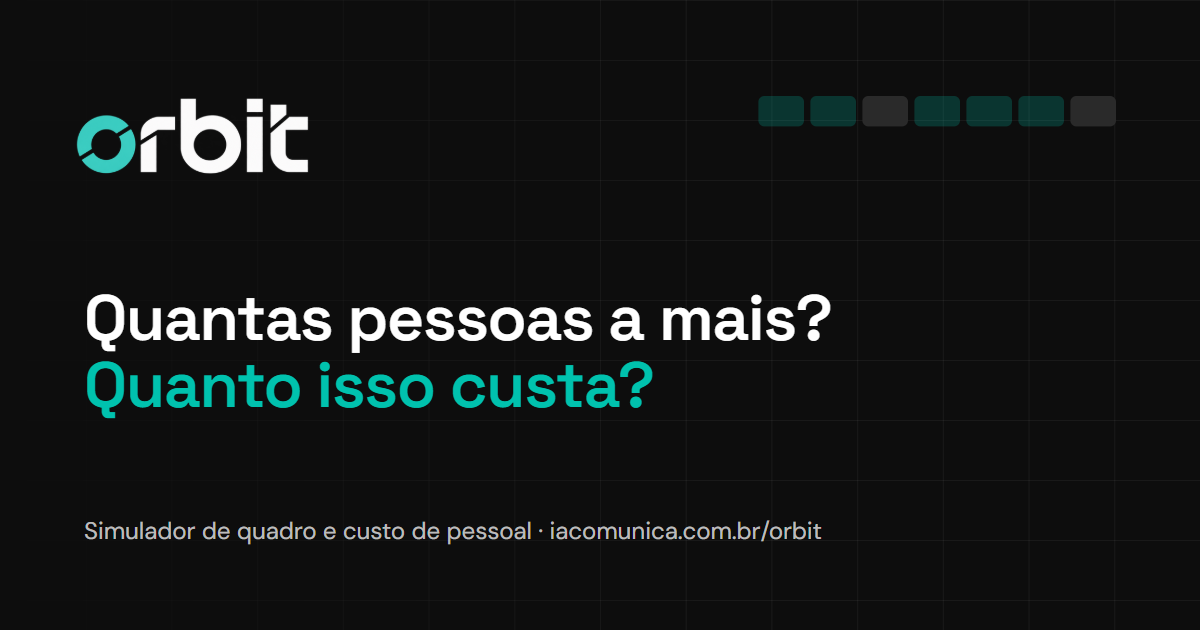
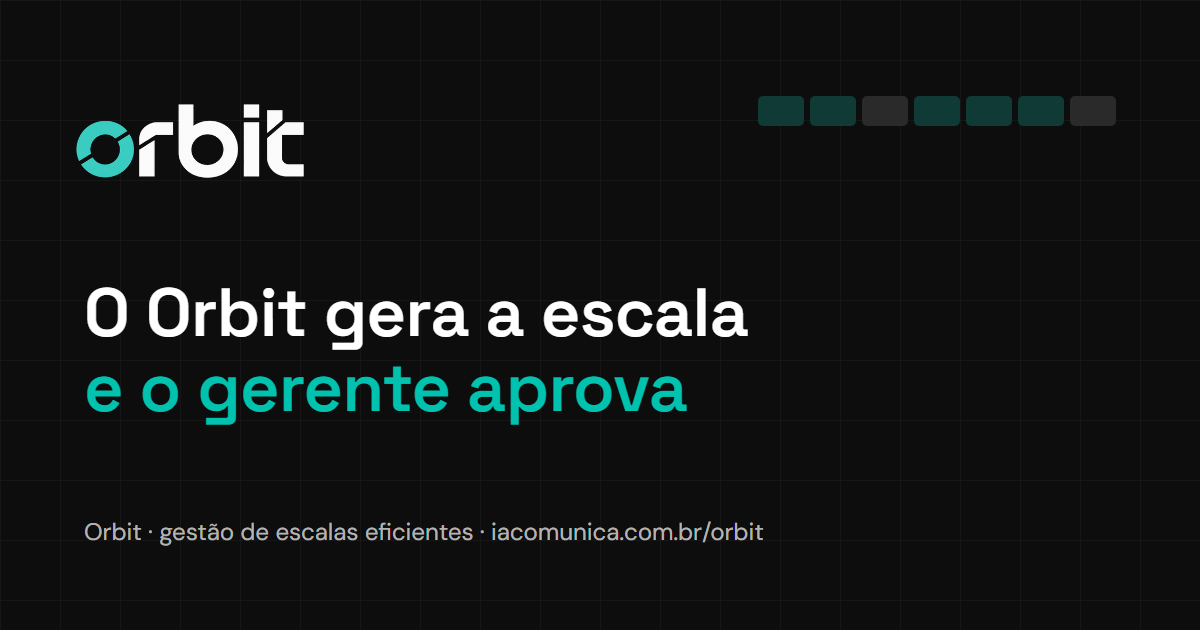
feat(orbit): secao de beneficios, CTA final sem simulador, WhatsApp e previa de compartilhamento sobre o produto

Changed region(s): [[0.0617, 0.4524, 0.7092, 0.6937], [0.0617, 0.8143, 0.6783, 0.8746], [0.0617, 0.1508, 0.2775, 0.3016]]

diff --git a/orbit/index.html b/orbit/index.html
@@ -6,7 +6,7 @@
   <meta charset="UTF-8" />
   <meta name="viewport" content="width=device-width, initial-scale=1.0" />
   <title>Orbit — Sua equipe no ritmo da operação | IA Comunica</title>
-  <meta name="description" content="A jornada semanal vai para 42h e depois 40h. Simule quantas pessoas a mais sua operação precisa e quanto isso custa, com a memória de cálculo aberta. Orbit, da IA Comunica." />
+  <meta name="description" content="O Orbit gera a escala e o gestor revisa e aprova. Escalas organizadas, conferidas contra as regras da CLT e dos acordos coletivos, e cada funcionário com acesso à própria escala. Orbit, da IA Comunica." />
   <meta name="robots" content="index, follow" />
   <link rel="canonical" href="https://www.iacomunica.com.br/orbit/" />
   <meta name="theme-color" content="#0D0D0D" />
@@ -15,19 +15,19 @@
   <meta property="og:locale" content="pt_BR" />
   <meta property="og:site_name" content="IA Comunica" />
   <meta property="og:title" content="Orbit — Sua equipe no ritmo da operação" />
-  <meta property="og:description" content="Quantas pessoas a mais? Quanto isso custa? Simule a transição de jornada com a conta aberta, linha por linha." />
+  <meta property="og:description" content="O Orbit gera a escala e o gerente aprova. Menos tempo fazendo escala, mais tempo cuidando da equipe." />
   <meta property="og:url" content="https://www.iacomunica.com.br/orbit/" />
-  <meta property="og:image" content="https://www.iacomunica.com.br/orbit/assets/orbit-og.png" />
+  <meta property="og:image" content="https://www.iacomunica.com.br/orbit/assets/orbit-og.png?v=20261029" />
   <meta property="og:image:width" content="1200" />
   <meta property="og:image:height" content="630" />
-  <meta property="og:image:alt" content="Logo do Orbit sobre fundo escuro com a pergunta: Quantas pessoas a mais? Quanto isso custa?" />
+  <meta property="og:image:alt" content="Logo do Orbit sobre fundo escuro com a frase: O Orbit gera a escala e o gerente aprova." />
   <meta name="twitter:card" content="summary_large_image" />
 
   <link rel="icon" href="/favicon-96x96.png" />
   <link rel="preconnect" href="https://fonts.googleapis.com" />
   <link rel="preconnect" href="https://fonts.gstatic.com" crossorigin />
   <link href="https://fonts.googleapis.com/css2?family=Space+Grotesk:wght@500;600&family=DM+Sans:opsz,wght@9..40,400;9..40,500;9..40,600&display=swap" rel="stylesheet" />
-  <link rel="stylesheet" href="/orbit/orbit.css" />
+  <link rel="stylesheet" href="/orbit/orbit.css?v=20261029" />
 
   <!-- Cal.com (mesmo evento do site institucional) -->
   <script type="text/javascript">
@@ -127,6 +127,52 @@
           </div>
           <p class="o-frame__cap">Telas reais do Orbit · dados fictícios de teste</p>
         </section>
+      </div>
+    </div>
+  </section>
+
+  <!-- =========================================================
+       1b. BENEFÍCIOS
+  ========================================================= -->
+  <section class="o-benef" id="beneficios" aria-labelledby="benef-titulo">
+    <div class="o-wrap">
+      <header class="o-sec-head">
+        <p class="o-eyebrow">Benefícios</p>
+        <h2 id="benef-titulo" class="o-h2">O que muda na rotina da sua operação</h2>
+        <p class="o-sec-lead">O Orbit gera a escala e o gestor revisa e aprova. O tempo que ia para montar escala volta para a equipe e para o trabalho do dia.</p>
+      </header>
+
+      <div class="o-pillars o-pillars--3">
+        <article class="o-pillar">
+          <span class="o-pillar__icon" aria-hidden="true"><svg width="22" height="22" viewBox="0 0 24 24" fill="none"><rect x="3.5" y="5" width="17" height="15" rx="2" stroke="currentColor" stroke-width="1.5"/><path d="M3.5 10h17M8 3v4M16 3v4" stroke="currentColor" stroke-width="1.5" stroke-linecap="round"/></svg></span>
+          <h3 class="o-pillar__title">Escala mais organizada</h3>
+          <p>Turnos, folgas e cobertura num só lugar, por equipe e por dia.</p>
+        </article>
+        <article class="o-pillar">
+          <span class="o-pillar__icon" aria-hidden="true"><svg width="22" height="22" viewBox="0 0 24 24" fill="none"><path d="M13 3 5 13.5h6L10 21l9-11h-6l0-7Z" stroke="currentColor" stroke-width="1.5" stroke-linejoin="round"/></svg></span>
+          <h3 class="o-pillar__title">Mais produtividade</h3>
+          <p>O Orbit gera a escala. O gestor deixa de passar horas diante do computador montando e remontando.</p>
+        </article>
+        <article class="o-pillar">
+          <span class="o-pillar__icon" aria-hidden="true"><svg width="22" height="22" viewBox="0 0 24 24" fill="none"><path d="M12 3 5 6v5.5c0 4.2 2.8 7.4 7 9.5 4.2-2.1 7-5.3 7-9.5V6l-7-3Z" stroke="currentColor" stroke-width="1.5" stroke-linejoin="round"/><path d="m9 12 2.2 2.2L15.5 10" stroke="currentColor" stroke-width="1.5" stroke-linecap="round" stroke-linejoin="round"/></svg></span>
+          <h3 class="o-pillar__title">Mais assertividade</h3>
+          <p>A escala é conferida contra as regras da CLT e dos acordos coletivos da sua empresa antes de ser publicada. O que viola uma regra vira alerta e impede a publicação até ser resolvido. Déficits de cobertura são sinalizados para revisão.</p>
+        </article>
+        <article class="o-pillar">
+          <span class="o-pillar__icon" aria-hidden="true"><svg width="22" height="22" viewBox="0 0 24 24" fill="none"><circle cx="12" cy="12" r="8.5" stroke="currentColor" stroke-width="1.5"/><path d="m8.5 12.2 2.4 2.4 4.6-5" stroke="currentColor" stroke-width="1.5" stroke-linecap="round" stroke-linejoin="round"/></svg></span>
+          <h3 class="o-pillar__title">O gestor revisa e aprova</h3>
+          <p>Em vez de pensar em como montar a escala, ele revisa o que o Orbit propôs e dedica o tempo à operação e à equipe.</p>
+        </article>
+        <article class="o-pillar">
+          <span class="o-pillar__icon" aria-hidden="true"><svg width="22" height="22" viewBox="0 0 24 24" fill="none"><path d="M4 8h13m0 0-3-3m3 3-3 3M20 16H7m0 0 3-3m-3 3 3 3" stroke="currentColor" stroke-width="1.5" stroke-linecap="round" stroke-linejoin="round"/></svg></span>
+          <h3 class="o-pillar__title">Imprevisto sem dor de cabeça</h3>
+          <p>Atestado, falta ou troca de última hora? O gestor realoca as pessoas com mais facilidade.</p>
+        </article>
+        <article class="o-pillar">
+          <span class="o-pillar__icon" aria-hidden="true"><svg width="22" height="22" viewBox="0 0 24 24" fill="none"><circle cx="12" cy="8.5" r="3.5" stroke="currentColor" stroke-width="1.5"/><path d="M5 20c.7-3.6 3.5-5.5 7-5.5s6.3 1.9 7 5.5" stroke="currentColor" stroke-width="1.5" stroke-linecap="round"/></svg></span>
+          <h3 class="o-pillar__title">A escala na mão de cada funcionário</h3>
+          <p>Cada pessoa tem o próprio acesso para consultar os horários e ver qualquer alteração por ali.</p>
+        </article>
       </div>
     </div>
   </section>
@@ -693,14 +739,14 @@
   <section class="o-final" aria-labelledby="final-titulo">
     <div class="o-wrap o-final__inner">
       <img src="/orbit/assets/orbit-logo-escuro.png" width="200" height="80" alt="Orbit" class="o-final__logo" />
-      <h2 id="final-titulo" class="o-h2 o-final__title">Do número estimado à escala aprovada.</h2>
-      <p class="o-final__lead">Leve a sua simulação para uma conversa com a IA Comunica e veja como o Orbit apoia o planejamento da sua equipe na nova jornada.</p>
+      <h2 id="final-titulo" class="o-h2 o-final__title">Menos tempo fazendo escala e mais tempo cuidando da sua equipe</h2>
+      <p class="o-final__lead">Fale com a IA Comunica para conhecer o Orbit e entender se ele cabe na realidade da sua operação.</p>
       <div class="o-final__actions">
         <a class="o-btn o-btn--teal o-btn--lg" href="https://cal.com/ia.comunica/reuniao-apresentacao-alinhamento"
            data-cal-link="ia.comunica/reuniao-apresentacao-alinhamento"
            data-cal-namespace="reuniao-apresentacao-alinhamento"
            data-cal-config='{"layout":"month_view","theme":"dark"}'>Agendar uma conversa</a>
-        <a class="o-btn o-btn--ghost-dark o-btn--lg" id="final-whatsapp" href="https://api.whatsapp.com/send/?phone=5561998747075&amp;text=Ol%C3%A1%21+Quero+conhecer+o+Orbit+e+o+simulador+de+quadro+e+custo+de+pessoal.&amp;type=phone_number&amp;app_absent=0" target="_blank" rel="noopener noreferrer">Falar com a IA Comunica</a>
+        <a class="o-btn o-btn--ghost-dark o-btn--lg" id="final-whatsapp" href="https://api.whatsapp.com/send/?phone=5561998747075&amp;text=Ol%C3%A1%21+Tenho+interesse+em+conhecer+mais+o+Orbit.&amp;type=phone_number&amp;app_absent=0" target="_blank" rel="noopener noreferrer">Falar com a IA Comunica</a>
       </div>
     </div>
   </section>
@@ -710,6 +756,6 @@
 {% include orbit-footer.html %}
 
 <script src="/orbit/orbit-calc.js"></script>
-<script src="/orbit/orbit.js"></script>
+<script src="/orbit/orbit.js?v=20261029"></script>
 </body>
 </html>

diff --git a/orbit/orbit.css b/orbit/orbit.css
@@ -386,6 +386,8 @@ p { margin: 0; }
    4. O QUE É
    ============================================================ */
 .o-about { padding: 88px 0; }
+.o-benef { padding: 88px 0 24px; }
+@media (min-width: 1100px) { .o-pillars.o-pillars--3 { grid-template-columns: repeat(3, 1fr); } }
 .o-pillars { display: grid; gap: 16px; }
 @media (min-width: 640px) { .o-pillars { grid-template-columns: 1fr 1fr; } }
 @media (min-width: 1100px) { .o-pillars { grid-template-columns: repeat(4, 1fr); } }
@@ -432,7 +434,7 @@ p { margin: 0; }
   background-size: 100% 56px, calc(100% / 7) 100%;
   -webkit-mask-image: linear-gradient(180deg, transparent, #000 30%, #000 70%, transparent); mask-image: linear-gradient(180deg, transparent, #000 30%, #000 70%, transparent); }
 .o-final__inner { display: grid; justify-items: center; gap: 18px; }
-.o-final__title { max-width: 24ch; }
+.o-final__title { max-width: 30ch; }
 .o-final__logo { width: 180px; height: auto; margin-bottom: 8px; }
 .o-final__title { color: #fff; }
 .o-final__lead { color: var(--o-on-dark-2); font-size: 17px; max-width: 62ch; }

diff --git a/orbit/orbit.js b/orbit/orbit.js
@@ -673,7 +673,7 @@
      Revelação suave ao rolar
      ============================================================ */
   if (!reduceMotion && 'IntersectionObserver' in window) {
-    var alvos = qsa('.o-pillar, .o-how__step, .o-faq__item, .o-about .o-sec-head, .o-faq .o-sec-head, .o-who');
+    var alvos = qsa('.o-pillar, .o-how__step, .o-faq__item, .o-about .o-sec-head, .o-benef .o-sec-head, .o-faq .o-sec-head, .o-who');
     var io = new IntersectionObserver(function (en) {
       en.forEach(function (x) { if (x.isIntersecting) { x.target.classList.add('is-in'); io.unobserve(x.target); } });
     }, { rootMargin: '0px 0px -8% 0px' });
